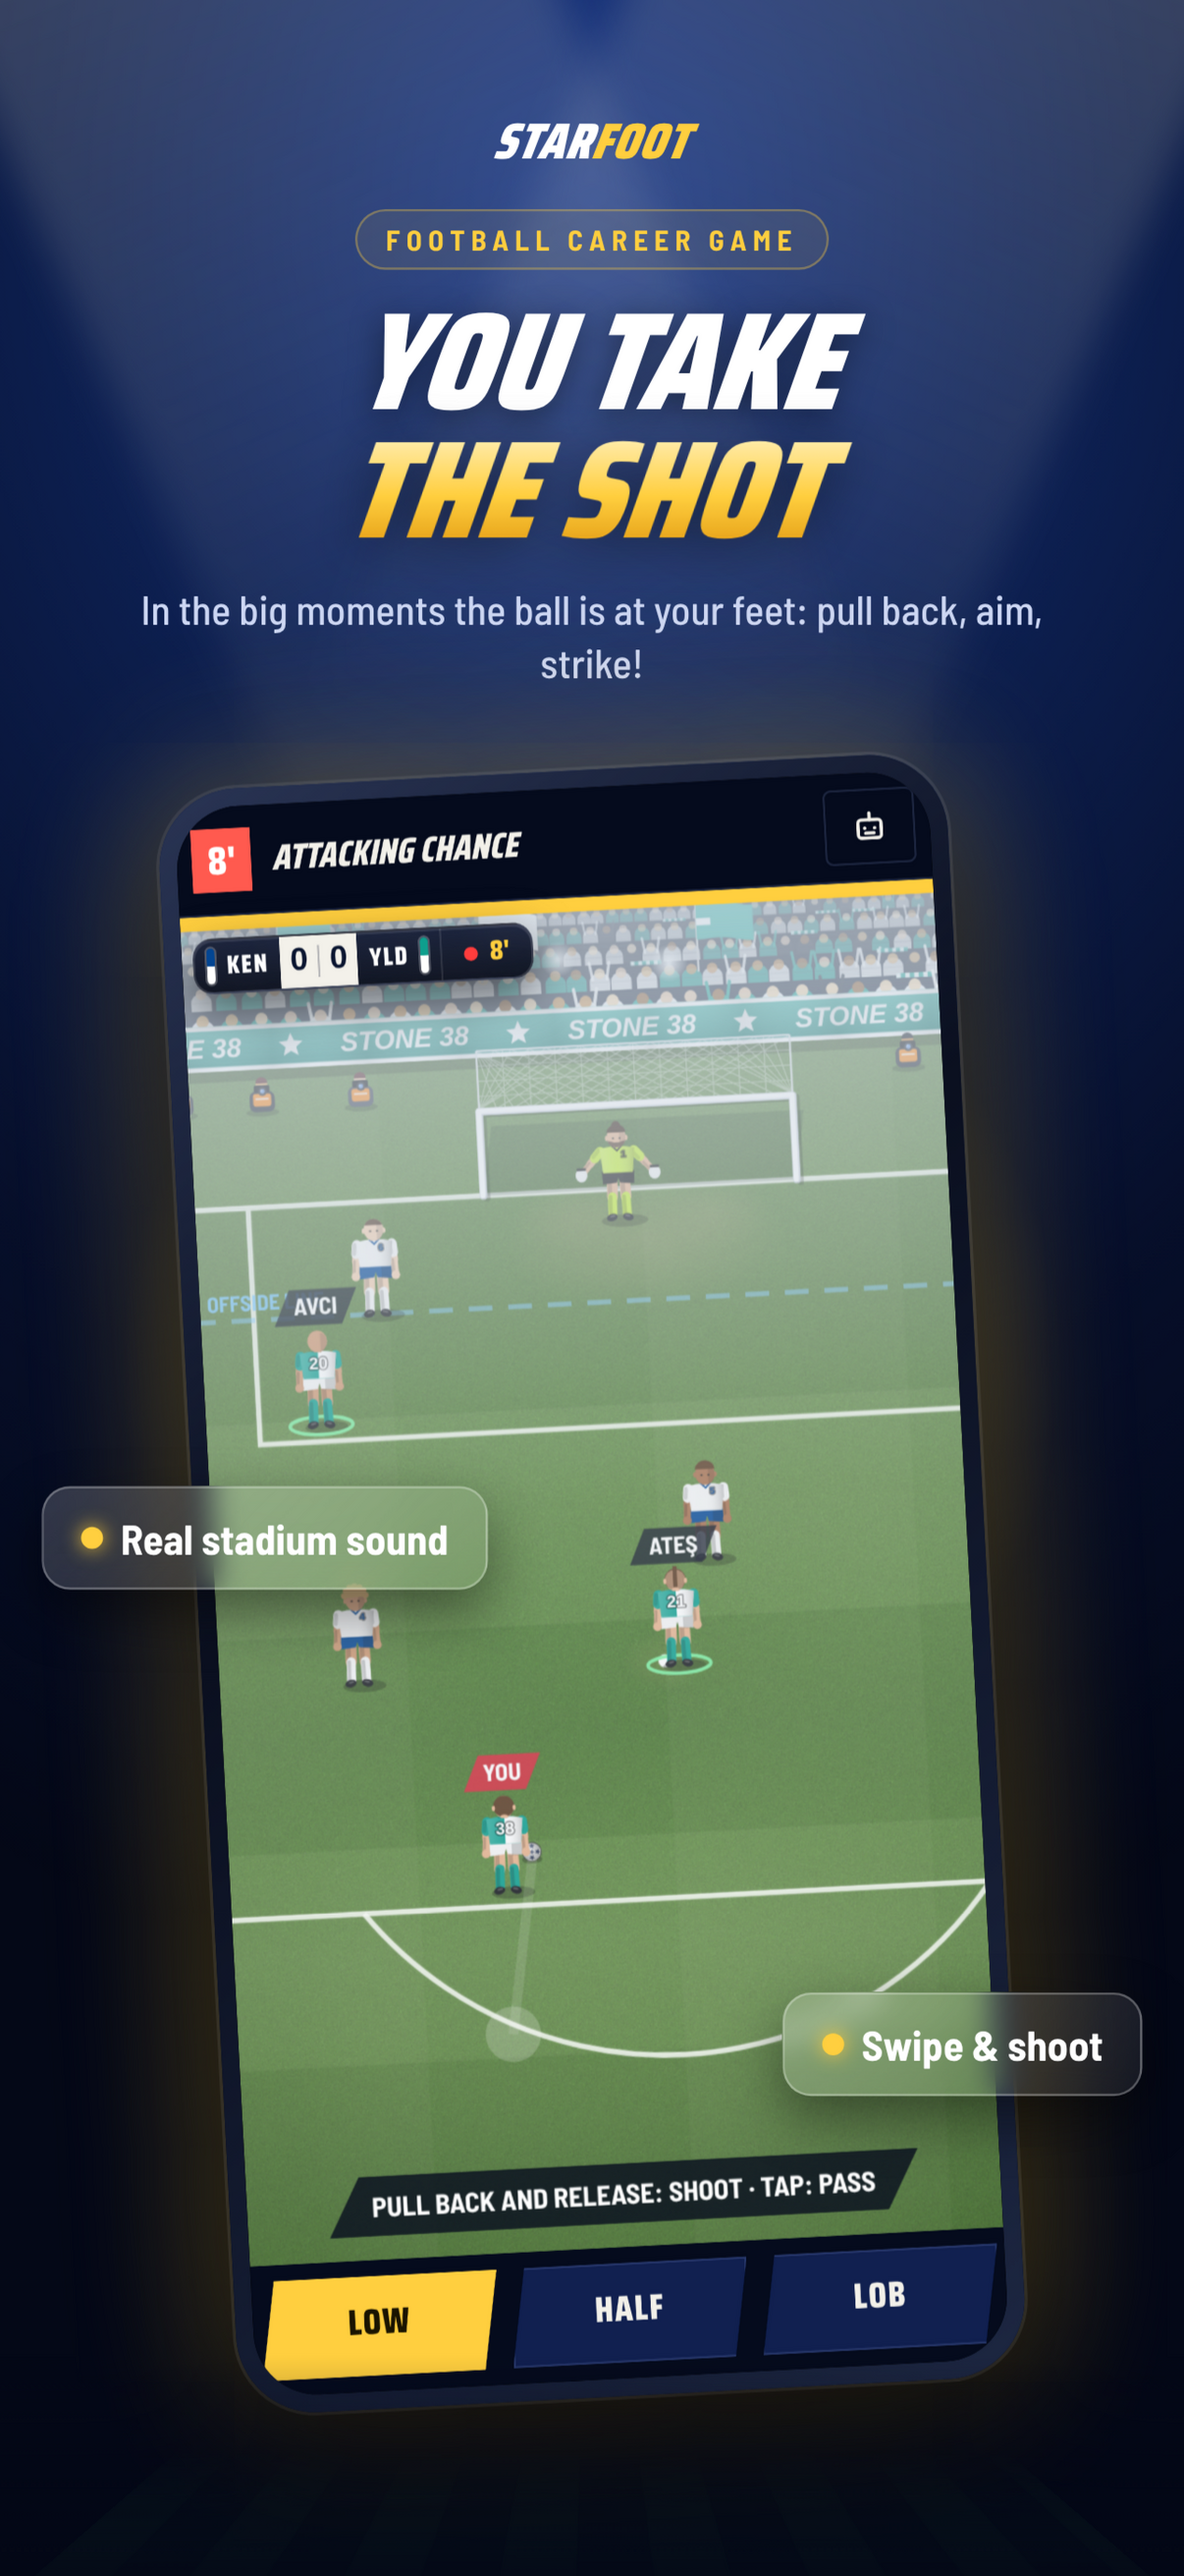
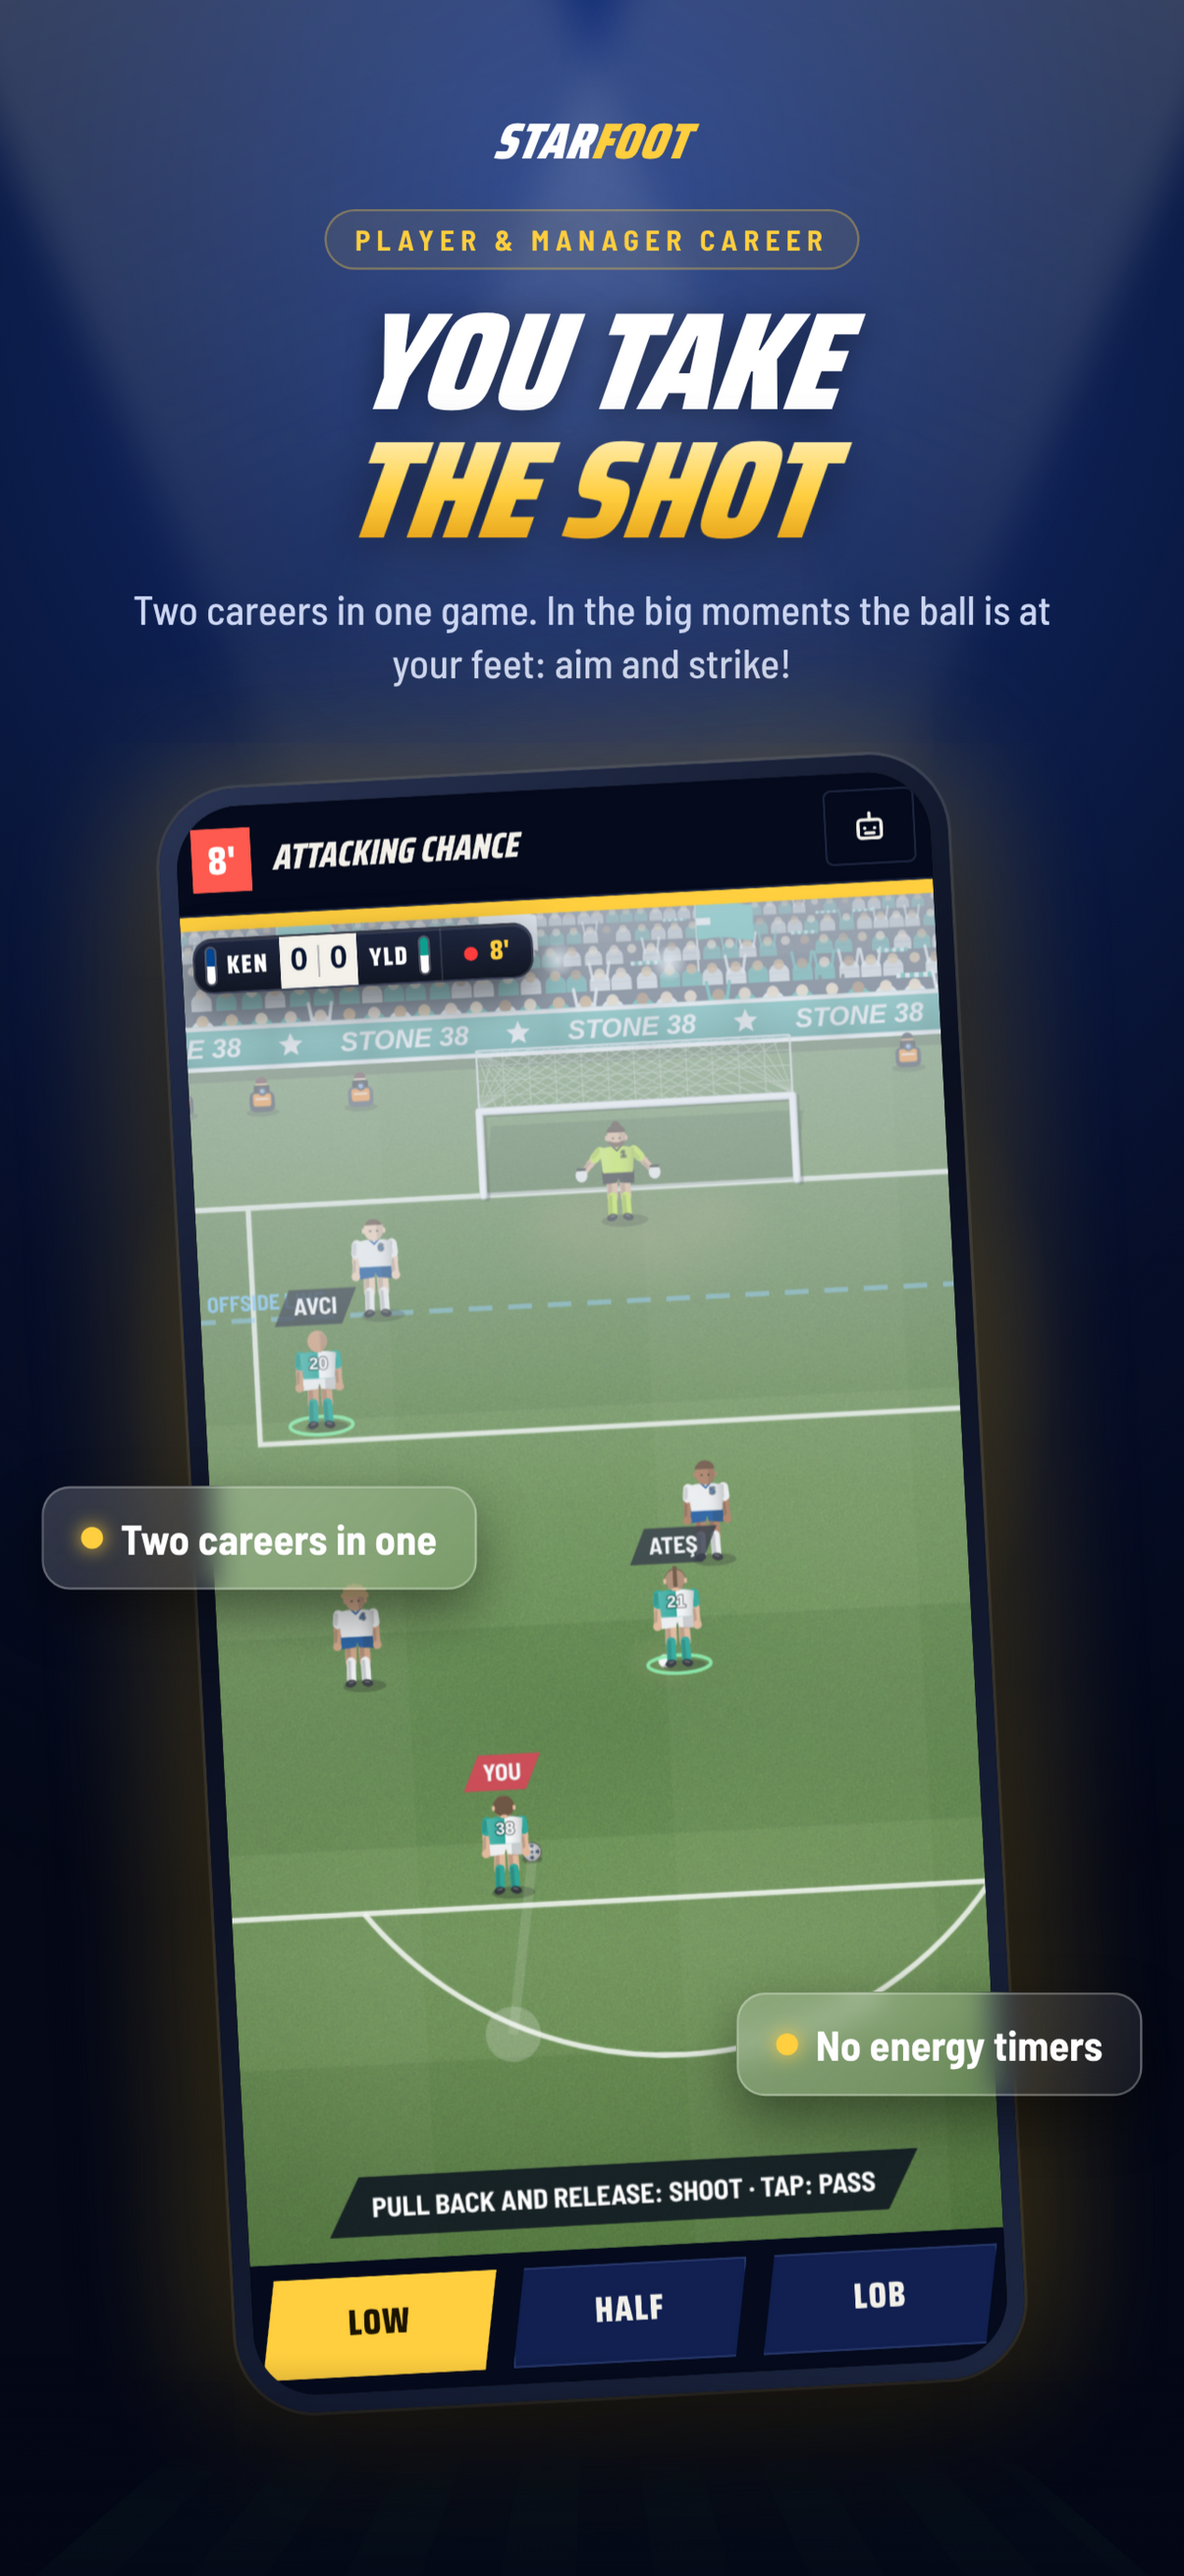
App Store: Almanya'ya Almanca görseller, değişen görselleri otomatik yenileme, İngilizce ilk görselde iki kariyer/enerji sayacı yok vurgusu; Büyük Dönüş etkinliği ve 1.0.22 öne çıkarılma başvurusu; etkinlikler sürümle birlikte incelemeye [skip ci]
Claude-Session: https://claude.ai/code/session_01UbcWLKQFNpV9b87MzUtaVX

diff --git a/store/premium/compose2.js b/store/premium/compose2.js
@@ -8,7 +8,7 @@ const P = (id, accent, glow, tilt, extra, T) => Object.assign({ id, accent, glow
 const POSTERS = [
   P('goal', '#ffcf3f', 'rgba(255,207,63,.45)', -3, {}, {
     tr: { tag: 'FUTBOL KARİYER OYUNU', h1: 'GOLÜ', h2: 'SEN AT', sub: 'Kritik anlarda top senin ayağında: geri çek, nişan al, vur!', chips: [['Gerçek stadyum sesi', 'left', 1060], ['Kaydır & vur', 'right', 1520]] },
-    en: { tag: 'FOOTBALL CAREER GAME', h1: 'YOU TAKE', h2: 'THE SHOT', sub: 'In the big moments the ball is at your feet: pull back, aim, strike!', chips: [['Real stadium sound', 'left', 1060], ['Swipe & shoot', 'right', 1520]] },
+    en: { tag: 'PLAYER & MANAGER CAREER', h1: 'YOU TAKE', h2: 'THE SHOT', sub: 'Two careers in one game. In the big moments the ball is at your feet: aim and strike!', chips: [['Two careers in one', 'left', 1060], ['No energy timers', 'right', 1520]] },
     es: { tag: 'JUEGO DE CARRERA DE FÚTBOL', h1: 'TÚ METES', h2: 'EL GOL', sub: 'En los momentos clave el balón es tuyo: tira atrás, apunta y dispara.', chips: [['Sonido real de estadio', 'left', 1060], ['Desliza y dispara', 'right', 1520]] },
     pt: { tag: 'JOGO DE CARREIRA NO FUTEBOL', h1: 'VOCÊ FAZ', h2: 'O GOL', sub: 'Nos lances decisivos a bola é sua: puxe, mire e chute!', chips: [['Som real de estádio', 'left', 1060], ['Deslize e chute', 'right', 1520]] },
     de: { tag: 'FUSSBALL-KARRIERESPIEL', h1: 'DU SCHIESST', h2: 'DAS TOR', sub: 'In den großen Momenten liegt der Ball bei dir: zurückziehen, zielen, abziehen!', chips: [['Echter Stadionsound', 'left', 1060], ['Wischen & schießen', 'right', 1520]] },

diff --git a/tools/asc/asc.py b/tools/asc/asc.py
@@ -23,7 +23,7 @@ SCREENS = {'APP_IPHONE_67': 'store/premium/ios', 'APP_IPHONE_61': 'store/premium
            'APP_IPAD_PRO_3GEN_129': 'store/premium/ipad'}
 # dil -> görsel dosya öneki (yoksa İngilizce)
 # TR, ES ve MX kendi dilinde; diğer tüm diller İngilizce görseller
-SHOT_PREFIX = {'tr': 'tr', 'es-ES': 'es', 'es-MX': 'es'}
+SHOT_PREFIX = {'tr': 'tr', 'es-ES': 'es', 'es-MX': 'es', 'de-DE': 'de'}
 
 
 class ASC:
@@ -227,6 +227,20 @@ def release(asc, app_id, ver, build_no, prepare_only=False):
             if i == 15:
                 sys.exit('Sürüm incelemeye eklenemedi; App Store Connect sayfasındaki uyarıyı kontrol et.')
             time.sleep(45)
+    # hazır (taslağı tamamlanmış) uygulama içi etkinlikler de aynı başvuruyla incelemeye gider
+    try:
+        for e in asc.get(f'/v1/apps/{app_id}/appEvents', limit=50)['data']:
+            if e['attributes'].get('eventState') != 'READY_FOR_REVIEW':
+                continue
+            try:
+                asc.req('POST', '/v1/reviewSubmissionItems', write=True, body={'data': {'type': 'reviewSubmissionItems', 'relationships': {
+                    'reviewSubmission': {'data': {'type': 'reviewSubmissions', 'id': sub['id']}},
+                    'appEvent': {'data': {'type': 'appEvents', 'id': e['id']}}}}})
+                print(f"   etkinlik incelemeye eklendi: {e['attributes'].get('referenceName')}")
+            except RuntimeError as err:
+                print(f"   ! etkinlik eklenemedi ({e['attributes'].get('referenceName')}): {str(err)[:160]}")
+    except RuntimeError as err:
+        print(f'   ! etkinlikler okunamadı: {err}')
     asc.req('PATCH', f"/v1/reviewSubmissions/{sub['id']}", write=True, body={'data': {'type': 'reviewSubmissions', 'id': sub['id'], 'attributes': {'submitted': True}}})
     print(f'   {vs} ({build_no}) incelemeye gönderildi')
 
@@ -292,10 +306,17 @@ def upload_shots(asc, vloc_id, loc, replace):
             cur = asc.get(f"/v1/appScreenshotSets/{s['id']}/appScreenshots", limit=20)['data']
             # yarıda kalmış yükleme (eksik sayı ya da yüklenmemiş/başarısız görsel) varsa seti baştan yükle
             bad = [c for c in cur if ((c['attributes'].get('assetDeliveryState') or {}).get('state')) in ('AWAITING_UPLOAD', 'FAILED', None)]
-            if cur and not replace and not bad and len(cur) >= len(files):
+            # mağazadaki görseller yereldekilerden farklıysa (dil değişti ya da görsel yenilendi) seti değiştir
+            local = sorted(hashlib.md5(f.read_bytes()).hexdigest() for f in files)
+            remote = sorted((c['attributes'].get('sourceFileChecksum') or '') for c in cur)
+            rep = replace
+            if cur and not rep and not bad and len(cur) == len(files) and local != remote:
+                print(f'      {dtype}: görseller değişmiş, yenileniyor')
+                rep = True
+            if cur and not rep and not bad and len(cur) >= len(files):
                 print(f'      {dtype}: {len(cur)} görsel zaten var, atlandı')
                 continue
-            if cur and not replace:
+            if cur and not rep:
                 print(f'      {dtype}: yarım kalmış ({len(cur)}/{len(files)}, {len(bad)} sorunlu), yeniden yükleniyor')
             for c in cur:
                 asc.req('DELETE', f"/v1/appScreenshots/{c['id']}", write=True)
